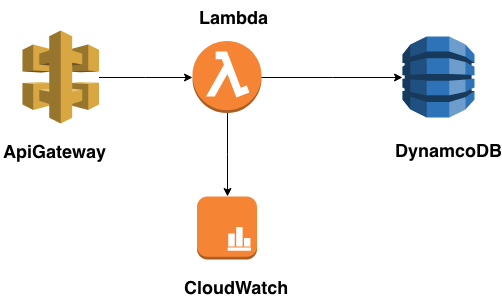
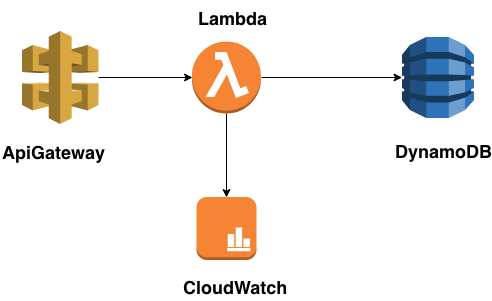
fix doc: corregir imagen

diff --git a/README.md b/README.md
@@ -6,7 +6,7 @@ Api para registrar datos de un formulario web, usando el siguiente stack de AWS:
 - Function Lambda https://aws.amazon.com/es/lambda/
 - DynamoDB https://aws.amazon.com/es/dynamodb/
 
-<img style="width:100%;" src="/doc/images/stack.png">
+<img src="/doc/images/stack.png">
 
 ### ¿Que incluye?
 
